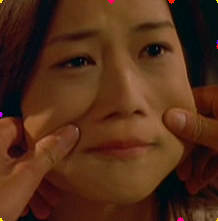
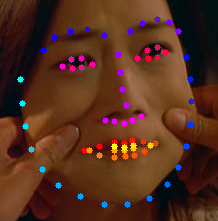
네트워크부분 수정및 메인사진시 직접처리수정
ㅇㅇ

diff --git a/uploads/core/templates/core/mainpage.html b/uploads/core/templates/core/mainpage.html
@@ -53,16 +53,15 @@
                         img = $('#mainimage');
                      {% endif %}
                       var url = img.attr("src");
-                      if(url !='/static/acidus/HTML/img/basicimage.jpg'){
-                             var hidden = $('#himgurl');
-                             hidden.attr("value",url);
-                             var frm;
-                             frm= $('#calldfformb');
-                             frm.attr("action","/facelandmark/");
-                             frm.submit();
-                       }else{
-                            alert("이미지를 선택해주세요");
-                       }
+                      var hidden = $('#himgurl');
+                      if(url =='/static/acidus/HTML/img/0_uzYdL17.png'){
+                           url = '/media/sample/facial/0_uzYdL17.png';
+                      }
+                      hidden.attr("value",url);
+                      var frm;
+                      frm= $('#calldfformb');
+                      frm.attr("action","/facelandmark/");
+                      frm.submit();
             }
         </script>
     </head>
@@ -122,7 +121,7 @@
                                 {% if select_file_url %}
                                 <img class="full-width img-responsive" id = "uploadimage" src="{{ select_file_url }}" alt="Portfolio Image">
                                 {% else %}
-                                <img class="full-width img-responsive" id = "mainimage" src="{% static 'acidus/HTML/img/basicimage.jpg' %}" alt="Portfolio Image">
+                                <img class="full-width img-responsive" id = "mainimage" src="{% static 'acidus/HTML/img/0_uzYdL17.png' %}" alt="Portfolio Image">
                                 {% endif %}
                             </div>
                         </div>

diff --git a/uploads/core/templates/core/welding_defect.html b/uploads/core/templates/core/welding_defect.html
@@ -52,16 +52,16 @@
                 img = $('#mainimage');
              {% endif %}
               var url = img.attr("src");
-              if(url !='/static/acidus/HTML/img/basicimage.jpg'){
-                     var hidden = $('#himgurl');
-                     hidden.attr("value",url);
-                     var frm;
-                     frm= $('#calldfformb');
-                     frm.attr("action","/welding_defect/");
-                     frm.submit();
-               }else{
-                    alert("이미지를 선택해주세요");
-               }
+              var hidden = $('#himgurl');
+              if(url == '/static/acidus/HTML/img/0_fcAT0kj.jpg'){
+                   url = '/media/sample/weldingdefect/0_fcAT0kj.jpg'
+              }
+               hidden.attr("value",url);
+               var frm;
+               frm= $('#calldfformb');
+               frm.attr("action","/welding_defect/");
+               frm.submit();
+
     }
 
 </script>
@@ -123,7 +123,7 @@
                                     {% if select_file_url %}
                                     <img class="full-width img-responsive" id = "uploadimage" src="{{ select_file_url }}" alt="Portfolio Image">
                                     {% else %}
-                                    <img class="full-width img-responsive" id = "mainimage" src="{% static 'acidus/HTML/img/basicimage.jpg' %}" alt="Portfolio Image">
+                                    <img class="full-width img-responsive" id = "mainimage" src="{% static 'acidus/HTML/img/0_fcAT0kj.jpg' %}" alt="Portfolio Image">
                                     {% endif %}
                                 </div>
                             </div>

diff --git a/uploads/core/homepage_demo/lib/facial_landmark_detector/ShapeRegressor.py b/uploads/core/homepage_demo/lib/facial_landmark_detector/ShapeRegressor.py
@@ -16,12 +16,14 @@ class ShapeRegressor(object):
         self.net = ResNet(self.image_size, self.num_landmarks, self.variance)
         self.images_T, self.prediction_T = self.net.get_test_tensors()
 
+        ## get model variables
+        variables = slim.filter_variables(slim.get_model_variables(), include_patterns=['ResNet'])
+
         ## initialize variables
-        self.sess.run(tf.global_variables_initializer())
+        self.sess.run(tf.variables_initializer(variables))
 
         ## load model
-        restorer = tf.train.Saver(slim.filter_variables(slim.get_model_variables(),
-                                                        include_patterns=['ResNet']))
+        restorer = tf.train.Saver(variables)
         restorer.restore(self.sess, model_path)
 
         ## create color map

diff --git a/uploads/core/homepage_demo/lib/welding_defect_recognizer/Recognizer.py b/uploads/core/homepage_demo/lib/welding_defect_recognizer/Recognizer.py
@@ -18,12 +18,14 @@ class Recognizer(object):
         self.net = LeNet(self.image_size, self.num_class)
         self.images_T, self.prob_T = self.net.get_test_tensors()
 
+        ## get model variables
+        variables = slim.filter_variables(slim.get_model_variables(), include_patterns=['LeNet'])
+
         ## initialize variables
-        self.sess.run(tf.global_variables_initializer())
+        self.sess.run(tf.variables_initializer(variables))
 
         ## load model
-        restorer = tf.train.Saver(slim.filter_variables(slim.get_model_variables(),
-                                                        include_patterns=['LeNet']))
+        restorer = tf.train.Saver(variables)
         restorer.restore(self.sess, model_path)
 
         ## transform params
